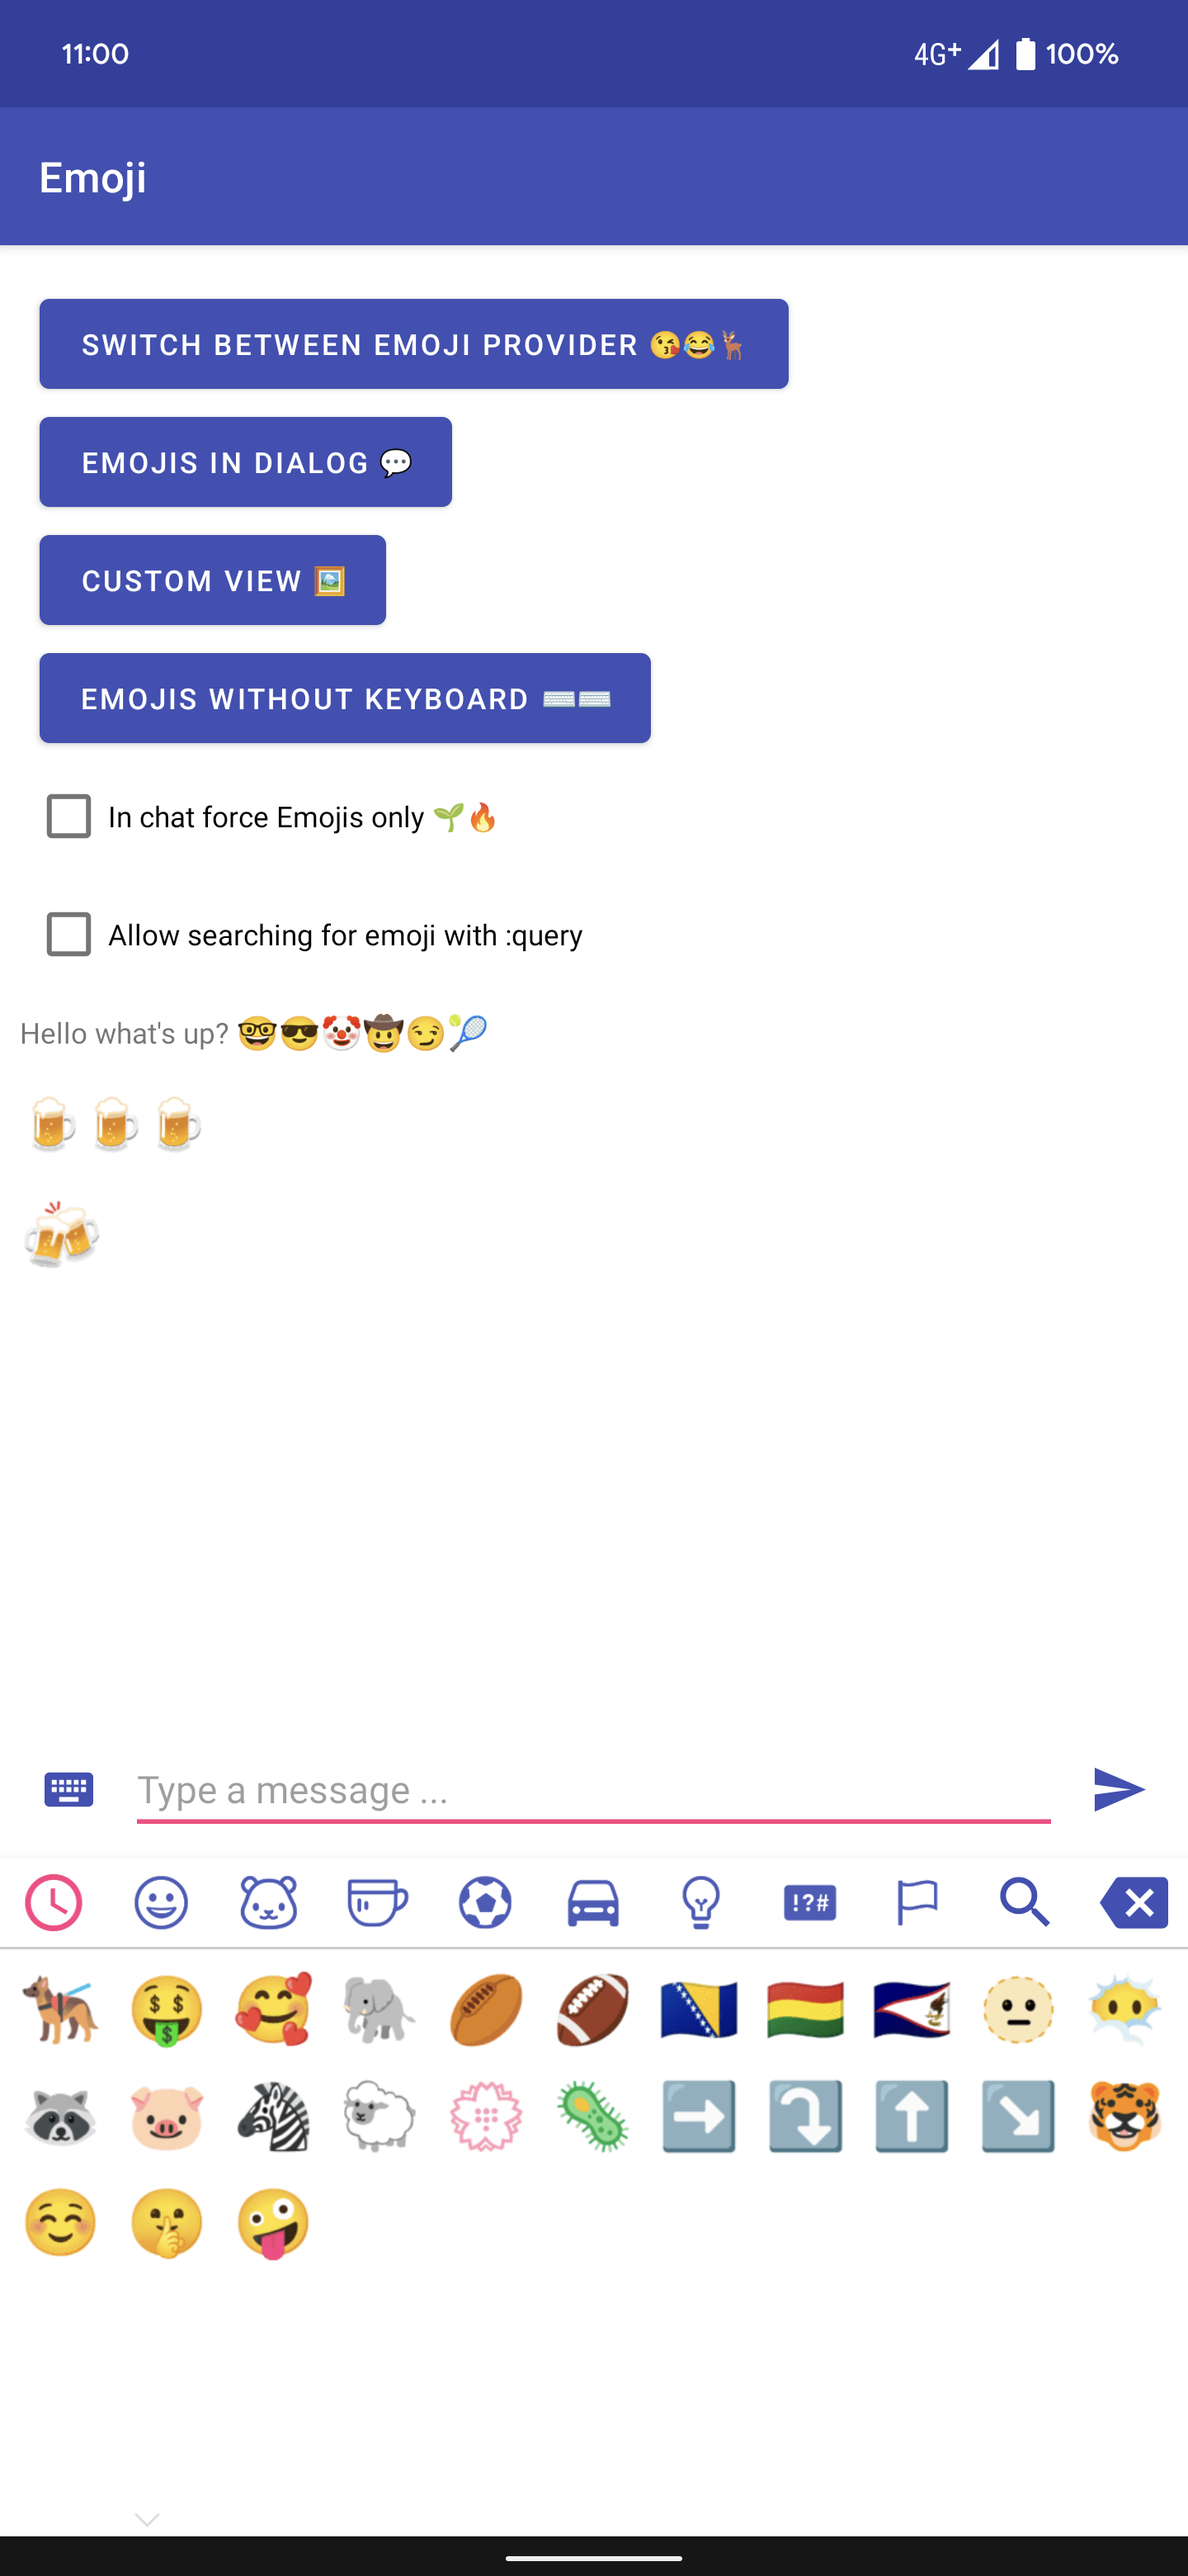
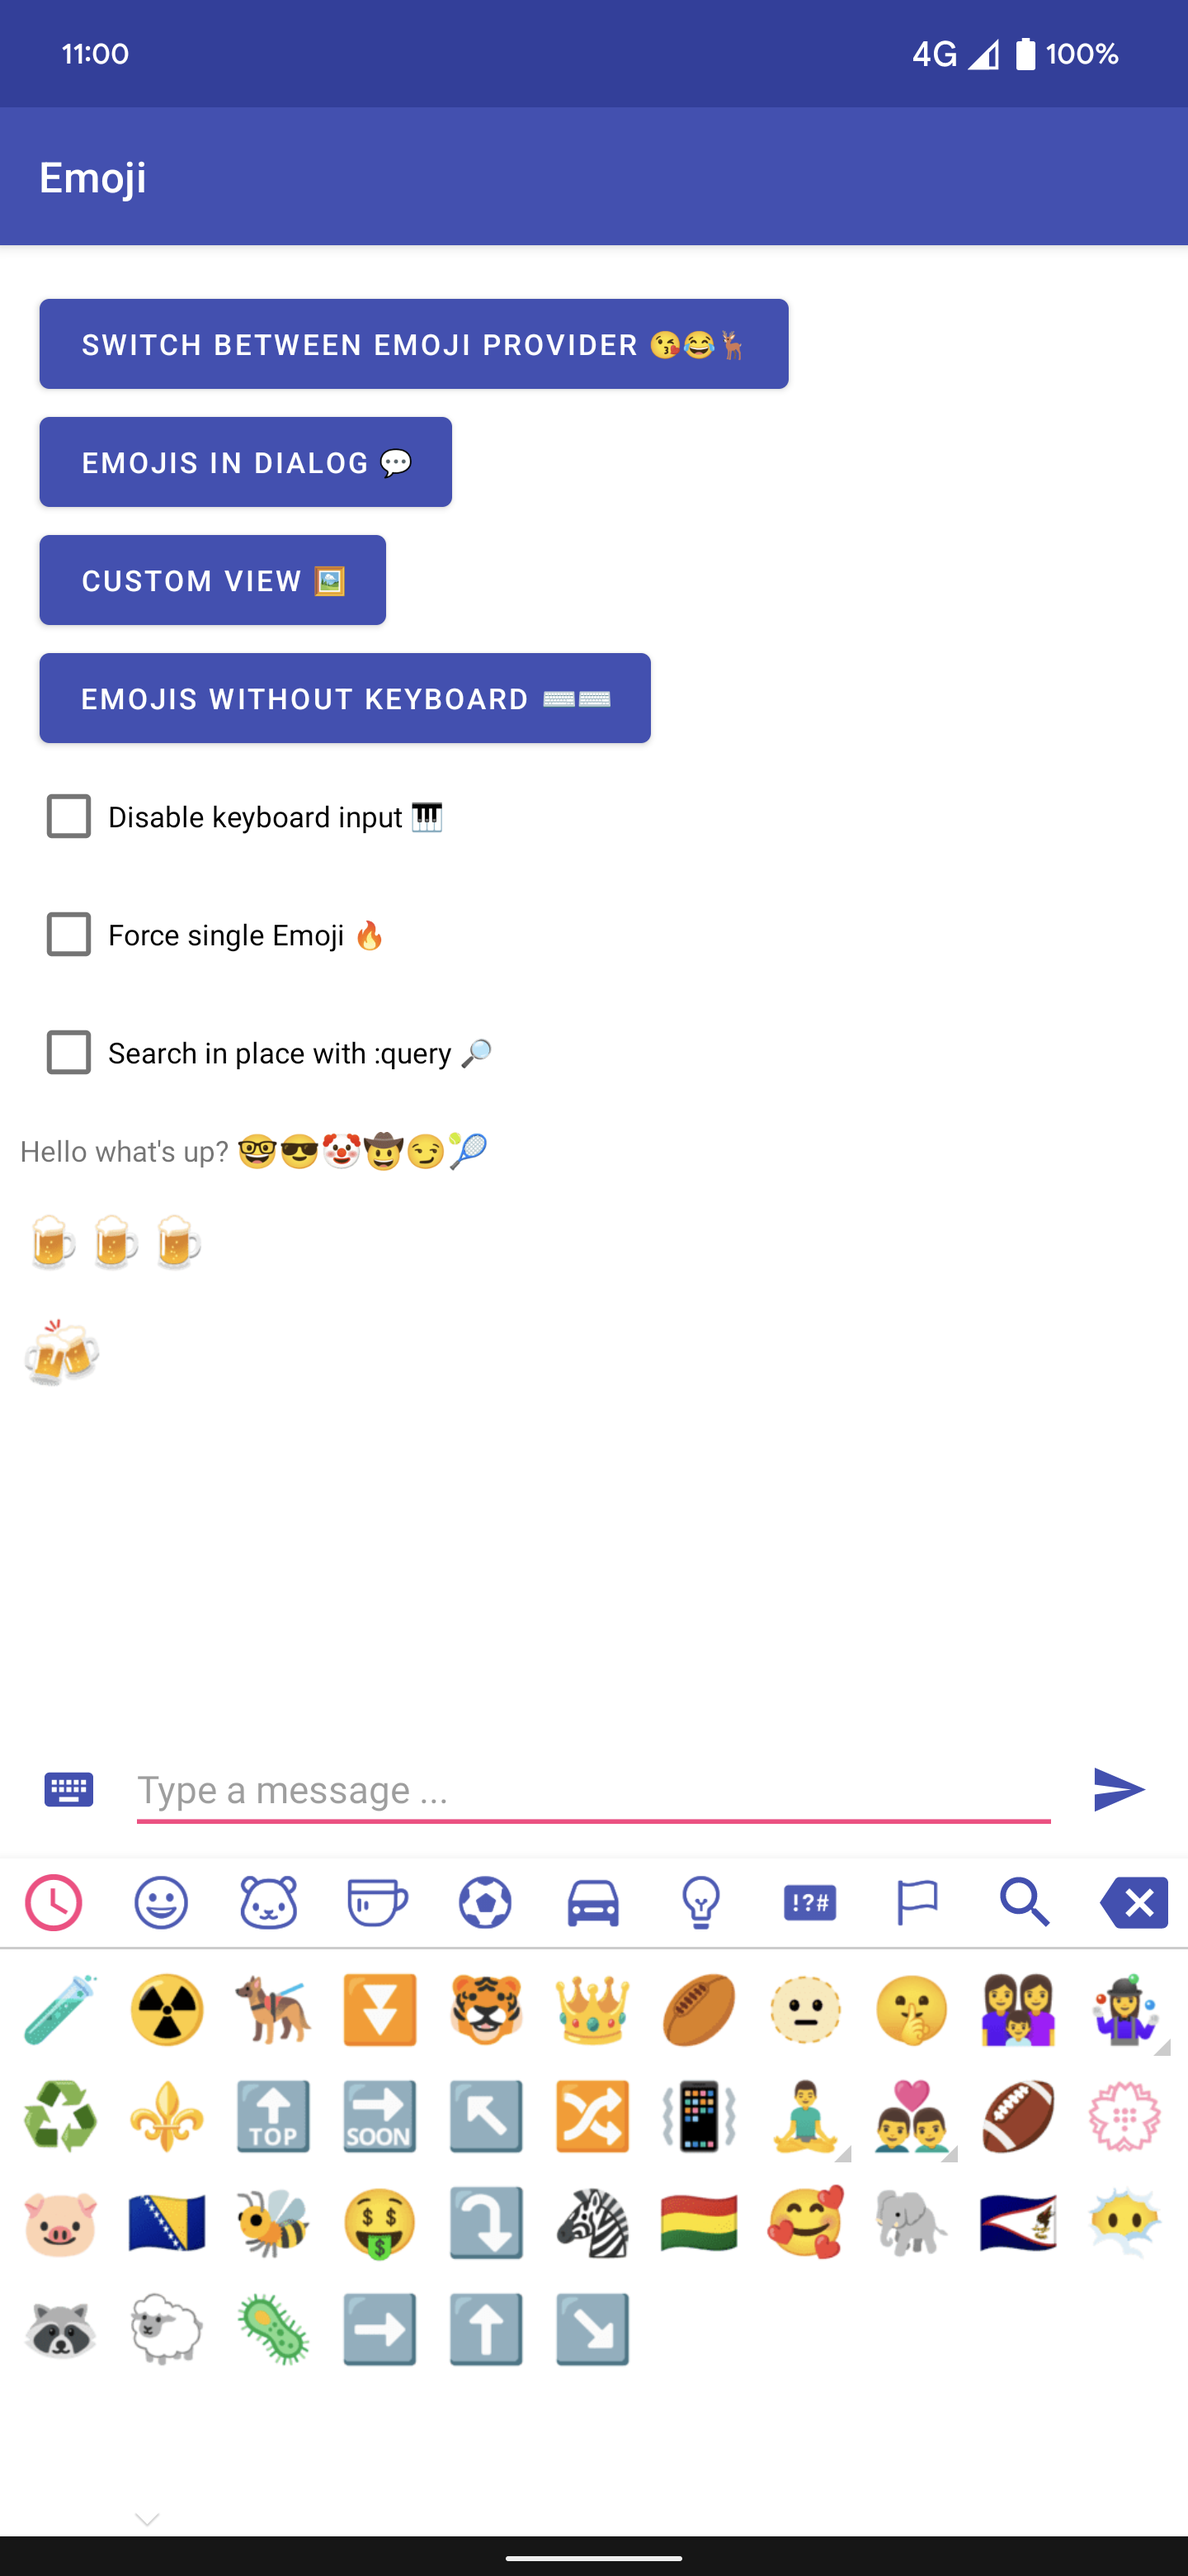
Ignore whitespace when using force single emoji & searching for an Emoji.

diff --git a/app/src/main/kotlin/com/vanniktech/emoji/sample/MainActivity.kt b/app/src/main/kotlin/com/vanniktech/emoji/sample/MainActivity.kt
@@ -38,6 +38,7 @@ import com.vanniktech.emoji.facebook.FacebookEmojiProvider
 import com.vanniktech.emoji.google.GoogleEmojiProvider
 import com.vanniktech.emoji.googlecompat.GoogleCompatEmojiProvider
 import com.vanniktech.emoji.installDisableKeyboardInput
+import com.vanniktech.emoji.installForceSingleEmoji
 import com.vanniktech.emoji.installSearchInPlace
 import com.vanniktech.emoji.ios.IosEmojiProvider
 import com.vanniktech.emoji.material.MaterialEmojiLayoutFactory
@@ -54,6 +55,7 @@ class MainActivity : AppCompatActivity() {
   private var emojiCompat: EmojiCompat? = null
   private var searchInPlaceEmojiTrait: EmojiTrait? = null
   private var disableKeyboardInputEmojiTrait: EmojiTrait? = null
+  private var forceSingleEmojiTrait: EmojiTrait? = null
 
   @SuppressLint("SetTextI18n")
   override fun onCreate(savedInstanceState: Bundle?) {
@@ -85,9 +87,10 @@ class MainActivity : AppCompatActivity() {
 
     binding.chatSend.setColorFilter(ContextCompat.getColor(this, R.color.colorPrimary), PorterDuff.Mode.SRC_IN)
     binding.chatEmoji.setColorFilter(ContextCompat.getColor(this, R.color.colorPrimary), PorterDuff.Mode.SRC_IN)
-    binding.forceEmojisOnly.setOnCheckedChangeListener { _, isChecked: Boolean ->
+    binding.disableKeyboardInput.setOnCheckedChangeListener { _, isChecked: Boolean ->
       if (isChecked) {
-        binding.chatEditText.clearFocus()
+        binding.searchInPlace.isChecked = false
+
         binding.chatEmoji.visibility = View.GONE
         disableKeyboardInputEmojiTrait = binding.chatEditText.installDisableKeyboardInput(emojiPopup)
       } else {
@@ -95,13 +98,30 @@ class MainActivity : AppCompatActivity() {
         disableKeyboardInputEmojiTrait?.uninstall()
       }
     }
-    binding.inPlaceEmojis.setOnCheckedChangeListener { _, isChecked: Boolean ->
+    binding.forceSingleEmoji.setOnCheckedChangeListener { _, isChecked: Boolean ->
       if (isChecked) {
+        binding.searchInPlace.isChecked = false
+
+        if (!binding.disableKeyboardInput.isChecked) {
+          binding.disableKeyboardInput.isChecked = true
+        }
+
+        forceSingleEmojiTrait = binding.chatEditText.installForceSingleEmoji()
+      } else {
+        forceSingleEmojiTrait?.uninstall()
+      }
+    }
+    binding.searchInPlace.setOnCheckedChangeListener { _, isChecked: Boolean ->
+      if (isChecked) {
+        binding.disableKeyboardInput.isChecked = false
+        binding.forceSingleEmoji.isChecked = false
+
         searchInPlaceEmojiTrait = binding.chatEditText.installSearchInPlace(emojiPopup)
       } else {
         searchInPlaceEmojiTrait?.uninstall()
       }
     }
+
     binding.chatEmoji.setOnClickListener { emojiPopup.toggle() }
     binding.chatSend.setOnClickListener {
       val text = binding.chatEditText.text.toString().trim { it <= ' ' }

diff --git a/emoji/src/main/kotlin/com/vanniktech/emoji/traits/ForceSingleEmojiTrait.kt b/emoji/src/main/kotlin/com/vanniktech/emoji/traits/ForceSingleEmojiTrait.kt
@@ -35,21 +35,21 @@ class ForceSingleEmojiTrait : EmojiTraitable {
         editText.removeTextChangedListener(this)
 
         val emoji = s.subSequence(start, start + count)
+          .trim() // Important, when we're coming from a search.
         editText.text = null
         editText.append(emoji)
+
         editText.addTextChangedListener(this)
       }
     }
 
-    editText.filters = editText.filters
-      .plus(OnlyEmojisInputFilter())
+    editText.filters = editText.filters.plus(OnlyEmojisInputFilter())
     editText.addTextChangedListener(listener)
 
     return object : EmojiTrait {
       override fun uninstall() {
         editText.filters = editText.filters
           .filterNot { it is OnlyEmojisInputFilter }
-          .toList()
           .toTypedArray()
         editText.removeTextChangedListener(listener)
       }

diff --git a/emoji/src/main/kotlin/com/vanniktech/emoji/traits/SearchInPlaceTrait.kt b/emoji/src/main/kotlin/com/vanniktech/emoji/traits/SearchInPlaceTrait.kt
@@ -58,8 +58,8 @@ class SearchInPlaceTrait(
               popup.show(
                 emojis = emojiPopup.searchEmoji.search(query),
                 delegate = {
-                  editText.text.replace(lastColon, s.length, it.unicode, 0, it.unicode.length)
-                  editText.text.append(" ")
+                  val new = "${it.unicode} "
+                  editText.text.replace(lastColon, s.length, new, 0, new.length)
                 },
               )
             } else {

diff --git a/app/src/main/kotlin/com/vanniktech/emoji/sample/CustomViewActivity.kt b/app/src/main/kotlin/com/vanniktech/emoji/sample/CustomViewActivity.kt
@@ -63,7 +63,7 @@ class CustomViewActivity : AppCompatActivity() {
     }
 
     fun setUpEmojiPopup() {
-      binding.onlyAllowSingleEmoji.setOnCheckedChangeListener { _, isChecked: Boolean ->
+      binding.forceSingleEmoji.setOnCheckedChangeListener { _, isChecked: Boolean ->
         if (isChecked) {
           forceSingleEmoji = binding.editText.installForceSingleEmoji()
         } else {
